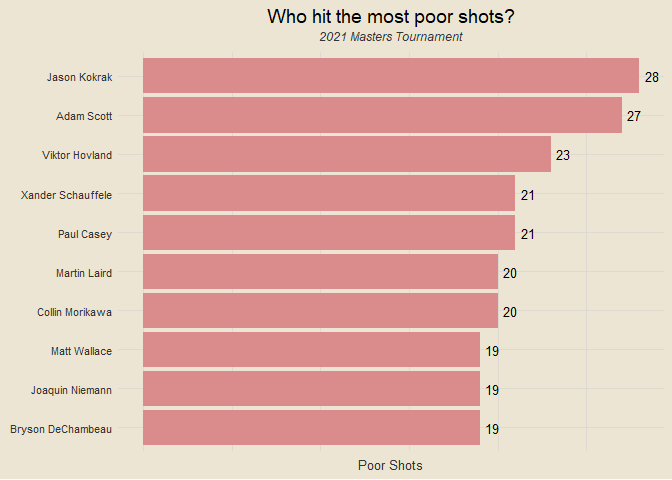
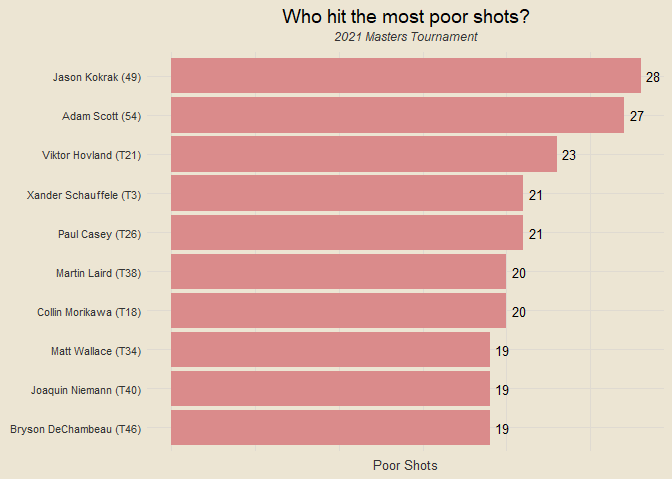
new commit

diff --git a/README.md b/README.md
@@ -117,10 +117,12 @@ View Code
 
 df |>
   filter(!is.na(great_shots)) |>
-  group_by(player_name) |>
-  summarise(great_shots = sum(great_shots)) |>
+  group_by(player_name, fin_text) |>
+  summarise(great_shots = sum(great_shots),
+            .groups = "drop") |>
   slice_max(great_shots, n = 10) |>
-  ggplot(aes(reorder(player_name, great_shots), great_shots)) +
+  mutate(p_name = paste0(player_name, " (", fin_text, ")")) |>
+  ggplot(aes(reorder(p_name, great_shots), great_shots)) +
   geom_col(fill = custom_green) +
   geom_text(aes(label = great_shots), size = 3.5, hjust = -0.4) +
   coord_flip() +
@@ -158,10 +160,12 @@ View Code
 
 df |>
   filter(!is.na(poor_shots)) |>
-  group_by(player_name) |>
-  summarise(poor_shots = sum(poor_shots)) |>
+  group_by(player_name, fin_text) |>
+  summarise(poor_shots = sum(poor_shots),
+            .groups = "drop") |>
   slice_max(poor_shots, n = 10) |>
-  ggplot(aes(reorder(player_name, poor_shots), poor_shots)) +
+  mutate(p_name = paste0(player_name, " (", fin_text, ")")) |>
+  ggplot(aes(reorder(p_name, poor_shots), poor_shots)) +
   geom_col(fill = custom_red) +
   geom_text(aes(label = poor_shots), size = 3.5, hjust = -0.4) +
   coord_flip() +
@@ -246,29 +250,127 @@ this line, indicating they hit more great shots than poor shots.
 Which players had the biggest difference in great and poor shots, in
 either direction?
 
+<details>
+<summary>
+View Code
+</summary>
+
 ``` r
 n_threshold = 6
 
 df |>
   filter(!is.na(great_shots) & !is.na(poor_shots)) |>
-  group_by(player_name) |>
+  group_by(player_name, fin_text) |>
   summarise(great = sum(great_shots),
-            poor = sum(poor_shots)) |>
+            poor = sum(poor_shots),
+            .groups = "drop") |>
   mutate(diff = great - poor) |>
   slice_max(diff, n = n_threshold) |>
   rbind(df |>
   filter(!is.na(great_shots) & !is.na(poor_shots)) |>
-  group_by(player_name) |>
+  group_by(player_name, fin_text) |>
   summarise(great = sum(great_shots),
-            poor = sum(poor_shots)) |>
+            poor = sum(poor_shots),
+            .groups = "drop") |>
   mutate(diff = great - poor) |>
   slice_min(diff, n = n_threshold)) |>
-  mutate(diff_col = ifelse(diff > 0, "good", "bad")) |>
-  ggplot(aes(reorder(player_name, diff), diff)) +
+  mutate(diff_col = ifelse(diff > 0, "good", "bad"),
+         pos_lab = ifelse(diff > 0, diff, ""),
+         neg_lab = ifelse(diff < 0, diff, ""),
+         p_name = paste0(player_name, " (", fin_text, ")")) |>
+  ggplot(aes(reorder(p_name, diff), diff)) +
   geom_col(aes(fill = diff_col), show.legend = F) +
+  geom_text(aes(label = pos_lab), size = 3.5, hjust = 1.5) +
+  geom_text(aes(label = neg_lab), size = 3.5, hjust = -0.4) +
   coord_flip() +
   scale_fill_manual(values = c(custom_red, custom_green)) +
-  labs(title = "THIS ONE IS STILL IN PROGRESS")
+  labs(x = NULL, y = "Great Shots - Poor Shots",
+       title = "Biggest Differences Between Great and Poor Shots",
+       subtitle = "2021 Masters Tournament") +
+  scale_y_continuous(breaks = seq(-15, 15, by = 3))
 ```
 
+</details>
+
 ![](README_files/figure-gfm/unnamed-chunk-8-1.png)<!-- -->
+
+------------------------------------------------------------------------
+
+### Impactful Shots by Round
+
+<details>
+<summary>
+View Code
+</summary>
+
+``` r
+df |>
+  filter(!is.na(great_shots) & !is.na(poor_shots) & !is.na(round_score)) |>
+  inner_join(df |>
+  filter(!is.na(great_shots) & !is.na(poor_shots) & !is.na(round_score)) |>
+  group_by(player_name, round_num) |>
+  summarise(great = sum(great_shots),
+            poor = sum(poor_shots),
+            impactful = sum(great_shots) + sum(poor_shots),
+            .groups = "drop"), by = c("player_name", "round_num")) |>
+  mutate(great_prop = great / impactful,
+         round_num = paste0("Round ", round_num)) |>
+  ggplot(aes(impactful, round_score)) +
+  geom_point() +
+  geom_smooth(formula = y ~ x, method = "lm", se = F, col = "springgreen4") +
+  geom_hline(yintercept = 72, alpha = 0.15) +
+  facet_wrap(vars(round_num)) +
+  labs(x = "Impactful Shots", y = "Round Score",
+       title = "Impactful Shots by Round",
+       subtitle = "2021 Masters Tournament") +
+  scale_x_continuous(breaks = seq(0, 20, by = 2)) +
+  scale_y_continuous(breaks = seq(60, 90, by = 4))
+```
+
+</details>
+
+![](README_files/figure-gfm/unnamed-chunk-9-1.png)<!-- -->
+
+**Plot Note**: I am defining an impactful shot as one that has either a
+great or poor outcome (as determined by the data source). One way of
+interpreting this may also be considering these as high-risk shots -
+shots that are risky and can either turn out great or turn out poorly.
+This may not necessarily be the case for each great or poor shot, but is
+how I am tracking it with the data at hand. With this interpretation,
+round three is called moving day for a reason - it is the only round
+where the number of impactful shots has a negative relationship with
+that player’s score. The relationship is also notably more positive in
+rounds two and four, which I suspect may be due to course setup or some
+players hitting higher-risk shots in attempt to make the cut or improve
+their finishing position.
+
+------------------------------------------------------------------------
+
+### Scoring by Round and Time of Day (IN PROGRESS)
+
+``` r
+df |>
+  inner_join(df |>
+  distinct(round_num, teetime) |>
+  group_by(round_num) |>
+  mutate(round_group_num = rank(teetime)) |>
+  arrange(round_num, teetime), by = c("round_num", "teetime")) |>
+  group_by(round_num, teetime) |>
+  summarise(round_score = sum(round_score),
+            .groups = "drop")
+```
+
+    ## # A tibble: 114 × 3
+    ##    round_num teetime round_score
+    ##        <dbl> <time>        <dbl>
+    ##  1         1 08:00           145
+    ##  2         1 08:12           231
+    ##  3         1 08:24           226
+    ##  4         1 08:36           222
+    ##  5         1 08:48           226
+    ##  6         1 09:00           216
+    ##  7         1 09:12           218
+    ##  8         1 09:24           223
+    ##  9         1 09:36           225
+    ## 10         1 09:48           218
+    ## # ℹ 104 more rows
